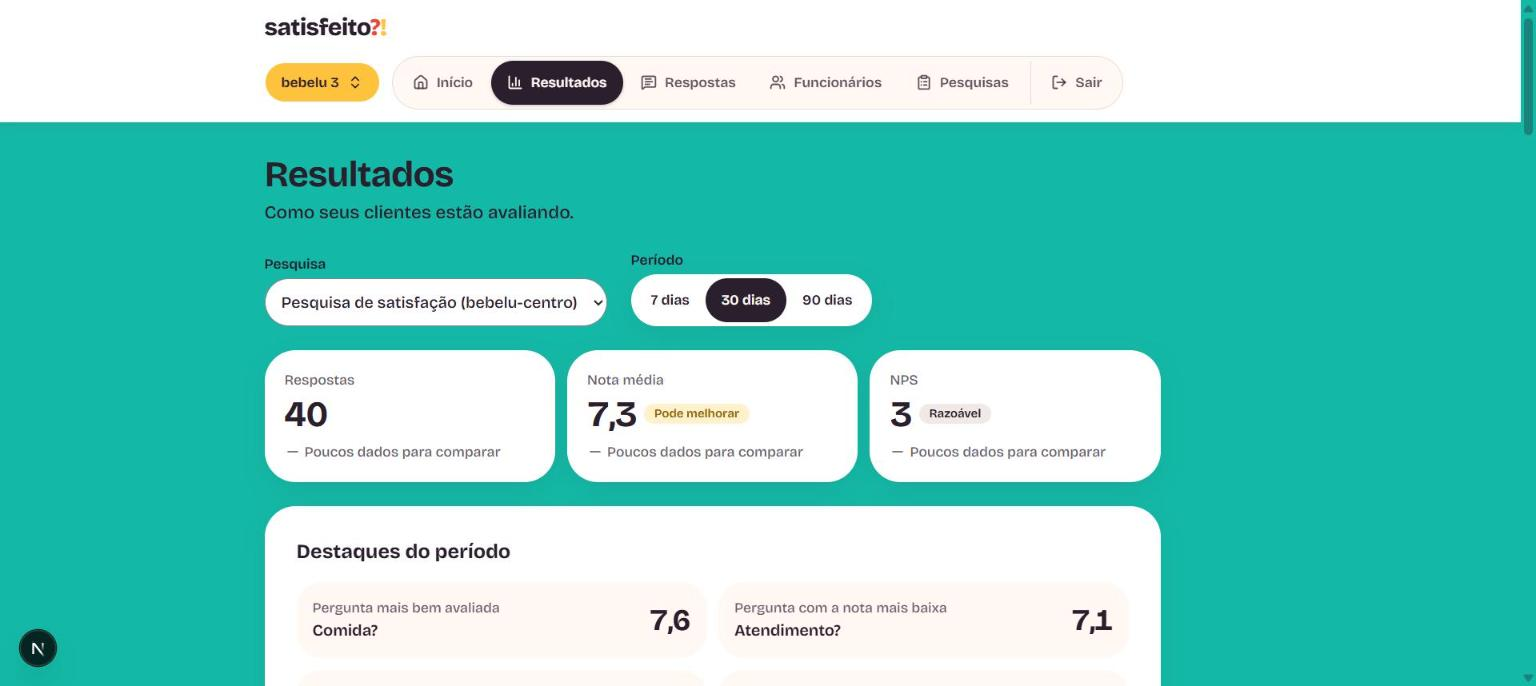
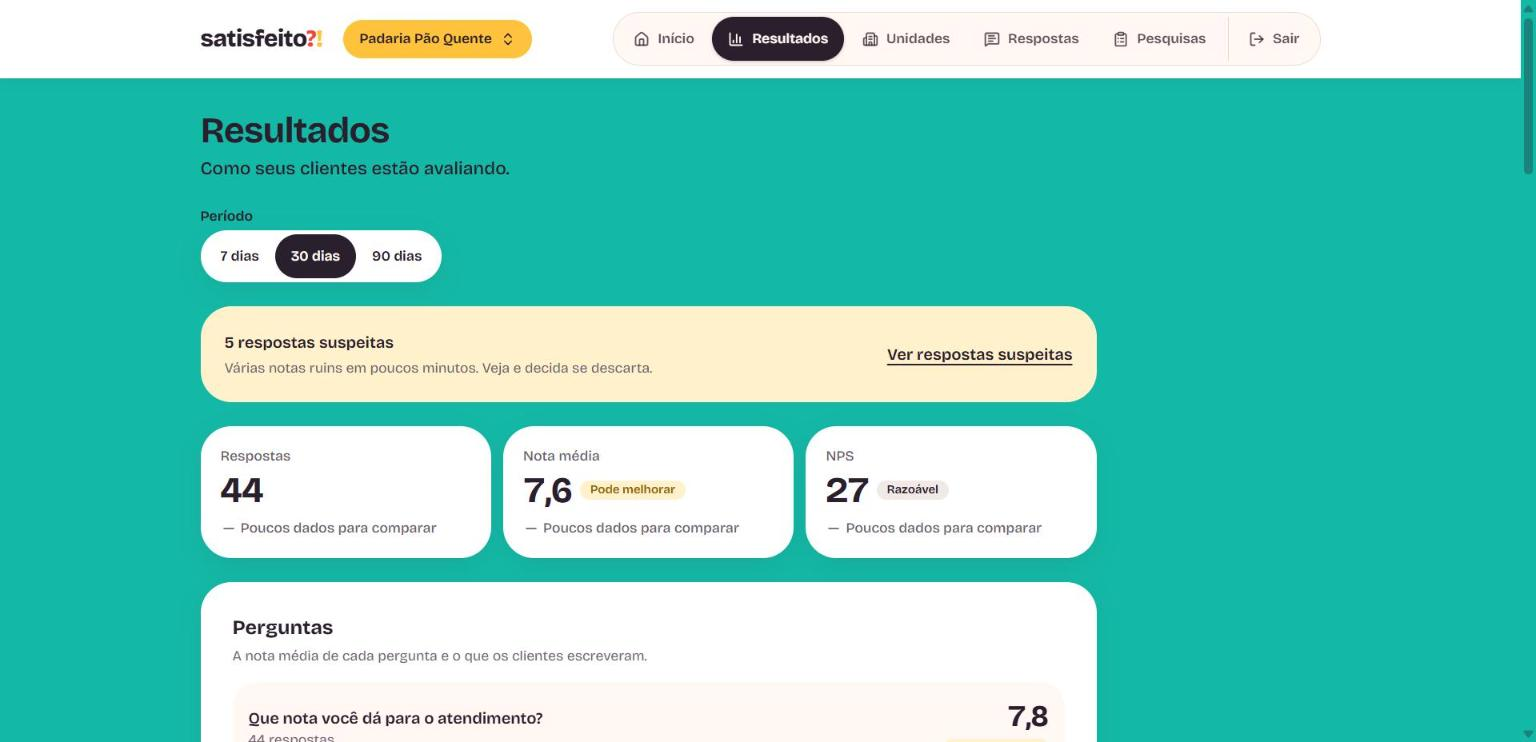
docs: refaz os prints do README (sem funcionários, com o cabeçalho novo) e corrige contraste do aviso de suspeitas

diff --git a/src/app/painel/respostas/page.tsx b/src/app/painel/respostas/page.tsx
@@ -86,7 +86,7 @@ export default async function PaginaRespostas({
 
           {aba === "suspeitas" && lista.envios.length > 0 && (
             <div className="space-y-3">
-              <p className="text-muted-foreground">
+              <p className="font-medium text-ameixa">
                 Marcamos como suspeitas as respostas de uma rajada: 4 ou mais respostas com média 4 ou menos, enviadas em até 15
                 minutos. Só você decide: descartar tira a resposta dos números, e dá para restaurar.
               </p>

diff --git a/CLAUDE.md b/CLAUDE.md
@@ -102,7 +102,7 @@ Consequência: o envio da resposta passa por uma Server Action (que aplica as re
 - [x] Melhorias de 2026-10-17: CI (GitHub Actions, `.github/workflows/ci.yml`, roda os testes de `supabase/tests` num Supabase local); página de erro e `instrumentation.ts`; exportar CSV; página Unidades (`comparar_unidades`); avisos por e-mail (`reservar_aviso`, `avisos_enviados`, colunas `empresas.aviso_nota_baixa` e `relatorio_semanal`; Resend via fetch, desligado sem `RESEND_API_KEY`/`EMAIL_REMETENTE`; testado de ponta a ponta com Resend falso). Páginas /termos e /privacidade criadas (modelo inicial; **revisar com advogado**, definir `NEXT_PUBLIC_EMAIL_CONTATO` e a razão social/CNPJ do responsável; excluir conta e dados feito em 2026-10-17: `apagarDadosDoDono` em `src/lib/conta/excluir.ts`, tela em Início > Minha conta e dados, testado com usuário descartável; `respostas` continua sem cascata com a pesquisa de propósito, por isso a exclusão apaga as respostas primeiro). **Pendências: criar a conta no Resend e verificar o domínio (sem isso nenhum e-mail sai); relatório semanal automático feito (`/api/cron/relatorio-semanal`, `vercel.json`, testado com IA e e-mail falsos): falta pôr `CRON_SECRET` na Vercel; a lógica de gerar o relatório agora está em `src/lib/resumo/pipeline.ts` (usada pela tela e pelo cron)**
 - [x] Ajustes de 2026-10-20 (PRs #35 e #36): caixa "Onde podemos melhorar?" para nota menor que 7 (migração `nota_baixa_melhorar`; `NOTA_MINIMA_SEM_MELHORAR` em `src/lib/respostas/formulario.ts`); **nenhuma pergunta é obrigatória** (migração `tudo_opcional` marcou todas como opcionais e `registrar_resposta` não confere mais; saiu o botão "Tornar obrigatória"; a coluna `obrigatoria` continua, sempre `false`); pergunta final sugerida vira "Quer nos contar mais alguma coisa?" (só pesquisas novas); cadastro pede a senha duas vezes e todo campo de senha tem botão de mostrar/ocultar (`src/components/formulario/campo-senha.tsx`). Pendência: conferir as telas no navegador/celular
 - [x] Ajustes de 2026-10-20/21 (PRs #38 a #43): cabeçalho do painel em uma linha do desktop (1024px) para cima, com o menu à direita e os nomes dos links inativos só a partir de 1180px (`layout.tsx`, `nav-painel.tsx`; painel em `max-w-6xl`; a saudação do Início ficou como antes); **relatório de IA também fala das notas**: `NumerosRelatorio` ganhou `perguntas` e `distribuicao` (opcionais, retratos antigos não têm), a IA devolve o campo `notas` (até 500 caracteres, conferido contra número inventado) e o WhatsApp mostra "Sobre as notas" + "Envios por nota" (`src/lib/resumo/*`); **funções da Vercel em São Paulo** (`vercel.json` com `regions: ["gru1"]`: rodavam em iad1 e cada consulta ao Supabase sa-east-1 cruzava os EUA; painel passou a responder em 0,2 a 0,4 s); **barra de carregamento** coral no topo ao clicar em links (`src/components/marca/barra-de-carregamento.tsx`, no layout raiz, ouve o clique na fase de captura porque o `Link` do Next já cancela o evento; não cobre redirecionamentos feitos pelo servidor). Pendências: testar o relatório com a chave real da Anthropic (texto de "Sobre as notas", custo); conferir o cabeçalho em tablet/celular
-- [x] **Funcionários saíram do produto (2026-10-21, decisão do Caio: só interessam notas e textos escritos)**: removidos a página `/painel/funcionarios` e o link do menu, o ranking da equipe e "Quem mais agradou" em Resultados, o passo "Cadastre quem atende" do Início, a pergunta "Quem te atendeu?" (tipo `funcionario`: some do formulário público, do editor, da lista de respostas e do CSV), a opção "Citar nomes e notas da equipe" e a equipe nos números/relatório de IA (a IA agora é mandada nunca citar nomes). **Nada foi apagado do banco**: tabela `funcionarios`, `respostas_itens.funcionario_id`, funções SQL e testes `rls_funcionarios.sql` continuam; a migração `tirar_funcionarios` só arquivou as 5 perguntas de funcionário que estavam valendo (dá para desarquivar). Se um dia quiser apagar de vez: dropar a tabela/coluna e as partes de `painel_pesquisa`/`respostas_pesquisa`/`reservar_resumo_ia` que ainda falam de equipe. Pendências: refazer o print `docs/prints/pesquisa-publica.jpg` (ainda mostra "Quem te atendeu?") e o de Resultados (ainda mostra o ranking); as telas `/painel/funcionarios` etc. não existem mais, então quem tiver o link salvo cai na página 404
+- [x] **Funcionários saíram do produto (2026-10-21, decisão do Caio: só interessam notas e textos escritos)**: removidos a página `/painel/funcionarios` e o link do menu, o ranking da equipe e "Quem mais agradou" em Resultados, o passo "Cadastre quem atende" do Início, a pergunta "Quem te atendeu?" (tipo `funcionario`: some do formulário público, do editor, da lista de respostas e do CSV), a opção "Citar nomes e notas da equipe" e a equipe nos números/relatório de IA (a IA agora é mandada nunca citar nomes). **Nada foi apagado do banco**: tabela `funcionarios`, `respostas_itens.funcionario_id`, funções SQL e testes `rls_funcionarios.sql` continuam; a migração `tirar_funcionarios` só arquivou as 5 perguntas de funcionário que estavam valendo (dá para desarquivar). Se um dia quiser apagar de vez: dropar a tabela/coluna e as partes de `painel_pesquisa`/`respostas_pesquisa`/`reservar_resumo_ia` que ainda falam de equipe. Prints do README refeitos em 2026-10-21 (empresa de exemplo "Padaria Pão Quente", criada e apagada na hora; o texto do relatório de IA nos prints é simulado). Obs.: as telas `/painel/funcionarios` etc. não existem mais, então quem tiver o link salvo cai na página 404
 - Avaliação da IA: `npm run avaliar-ia` (`src/lib/resumo/avaliacao/relatorio.avaliacao.ts`, config `vitest.avaliacao.config.ts`); pula sem `ANTHROPIC_API_KEY`; o roteiro foi validado contra a IA falsa, falta rodar com a chave real e olhar os textos impressos
 - Auditoria de acessibilidade com axe-core (WCAG 2.1 A/AA + boas práticas) em 2026-10-17, injetado pelo navegador: home, /termos, Resultados, Respostas, Painel, Unidades e a pesquisa pública sem violações (depois de corrigir o texto "poucos dados" de dia/turno, que estava esmaecido, e o aviso do Turnstile, de contraste baixo). Aviso `region` do `#claude-static-indicator-container` é da extensão do Claude, não do app. Não auditadas: /entrar e /cadastro (o Chrome controlado está logado e redireciona), editor de pesquisas. Teste com leitor de tela de verdade continua pendente
 - **Decisão do Caio (2026-10-17): avisos por e-mail e relatório semanal ficam PARA DEPOIS e saíram do site** (cartão do Início removido, `registrar` não dispara mais aviso, `vercel.json` sem cron, política de privacidade sem menção a eles). O código continua no repositório e no banco, desligado: `src/lib/avisos/*`, `src/app/painel/avisos/*` (não usado), `src/app/api/cron/relatorio-semanal`, `reservar_aviso`, `avisos_enviados`, colunas `empresas.aviso_nota_baixa/relatorio_semanal`. Para religar: recolocar `<AvisosEmail>` em `/painel`, o `after(() => avisarSobreResposta(...))` em `enviarResposta` (`src/app/p/[slug]/actions.ts`), o cron em `vercel.json` (`{"crons":[{"path":"/api/cron/relatorio-semanal","schedule":"0 11 * * *"}]}`), a linha do Resend na política de privacidade, e criar `RESEND_API_KEY`, `EMAIL_REMETENTE` e `CRON_SECRET`.

diff --git a/README.md b/README.md
@@ -40,7 +40,7 @@ O primeiro cliente é a lanchonete **Bebelu**. Depois, a ideia é oferecer o Sat
 
 | Página inicial | Entrar |
 |---|---|
-| ![Página inicial do satisfeito?!](docs/prints/inicio.png) | ![Tela de login](docs/prints/entrar.jpg) |
+| ![Página inicial do satisfeito?!](docs/prints/inicio.jpg) | ![Tela de login](docs/prints/entrar.jpg) |
 
 **Pesquisa que o cliente responde pelo celular** (a página abre pelo QR code, sem login):
 
@@ -58,7 +58,7 @@ O primeiro cliente é a lanchonete **Bebelu**. Depois, a ideia é oferecer o Sat
 
 **Resultados** (período de 7, 30 ou 90 dias, comparação com o período anterior, NPS, distribuição das notas, destaques, dia da semana e turno, evolução):
 
-![Cartões de resumo e destaques](docs/prints/dashboard-topo.jpg)
+![Cartões de resumo e perguntas](docs/prints/dashboard-topo.jpg)
 
 ![Nota por dia da semana e por turno](docs/prints/dashboard-dia-turno.jpg)
 
@@ -75,7 +75,7 @@ O primeiro cliente é a lanchonete **Bebelu**. Depois, a ideia é oferecer o Sat
 
 **Respostas** (abas Todas, Suspeitas e Descartadas, selo de suspeita e botão Descartar):
 
-![Lista de respostas com respostas suspeitas](docs/prints/respostas.jpg)
+![Lista de respostas, com abas de suspeitas e descartadas](docs/prints/respostas.jpg)
 
 **Relatório para a equipe** (texto pronto para copiar e mandar no WhatsApp):
 

diff --git a/README.en.md b/README.en.md
@@ -41,7 +41,7 @@ The first customer is the snack bar **Bebelu**. Later, the plan is to offer Sati
 
 | Home page | Sign in |
 |---|---|
-| ![Satisfeito home page](docs/prints/inicio.png) | ![Sign-in screen](docs/prints/entrar.jpg) |
+| ![Satisfeito home page](docs/prints/inicio.jpg) | ![Sign-in screen](docs/prints/entrar.jpg) |
 
 **Survey the customer answers on their phone** (opens from the QR code, no login):
 
@@ -59,7 +59,7 @@ The first customer is the snack bar **Bebelu**. Later, the plan is to offer Sati
 
 **Results** (7, 30 or 90-day period, comparison with the previous period, NPS, score distribution, highlights, weekday and shift, evolution):
 
-![Summary cards and highlights](docs/prints/dashboard-topo.jpg)
+![Summary cards and questions](docs/prints/dashboard-topo.jpg)
 
 ![Score by weekday and shift](docs/prints/dashboard-dia-turno.jpg)
 
@@ -76,7 +76,7 @@ The first customer is the snack bar **Bebelu**. Later, the plan is to offer Sati
 
 **Answers** (All, Suspicious and Discarded tabs, suspicious badge and Discard button):
 
-![Answer list with suspicious answers](docs/prints/respostas.jpg)
+![Answer list, with tabs for suspicious and discarded answers](docs/prints/respostas.jpg)
 
 **Team report** (text ready to copy and send on WhatsApp):
 
